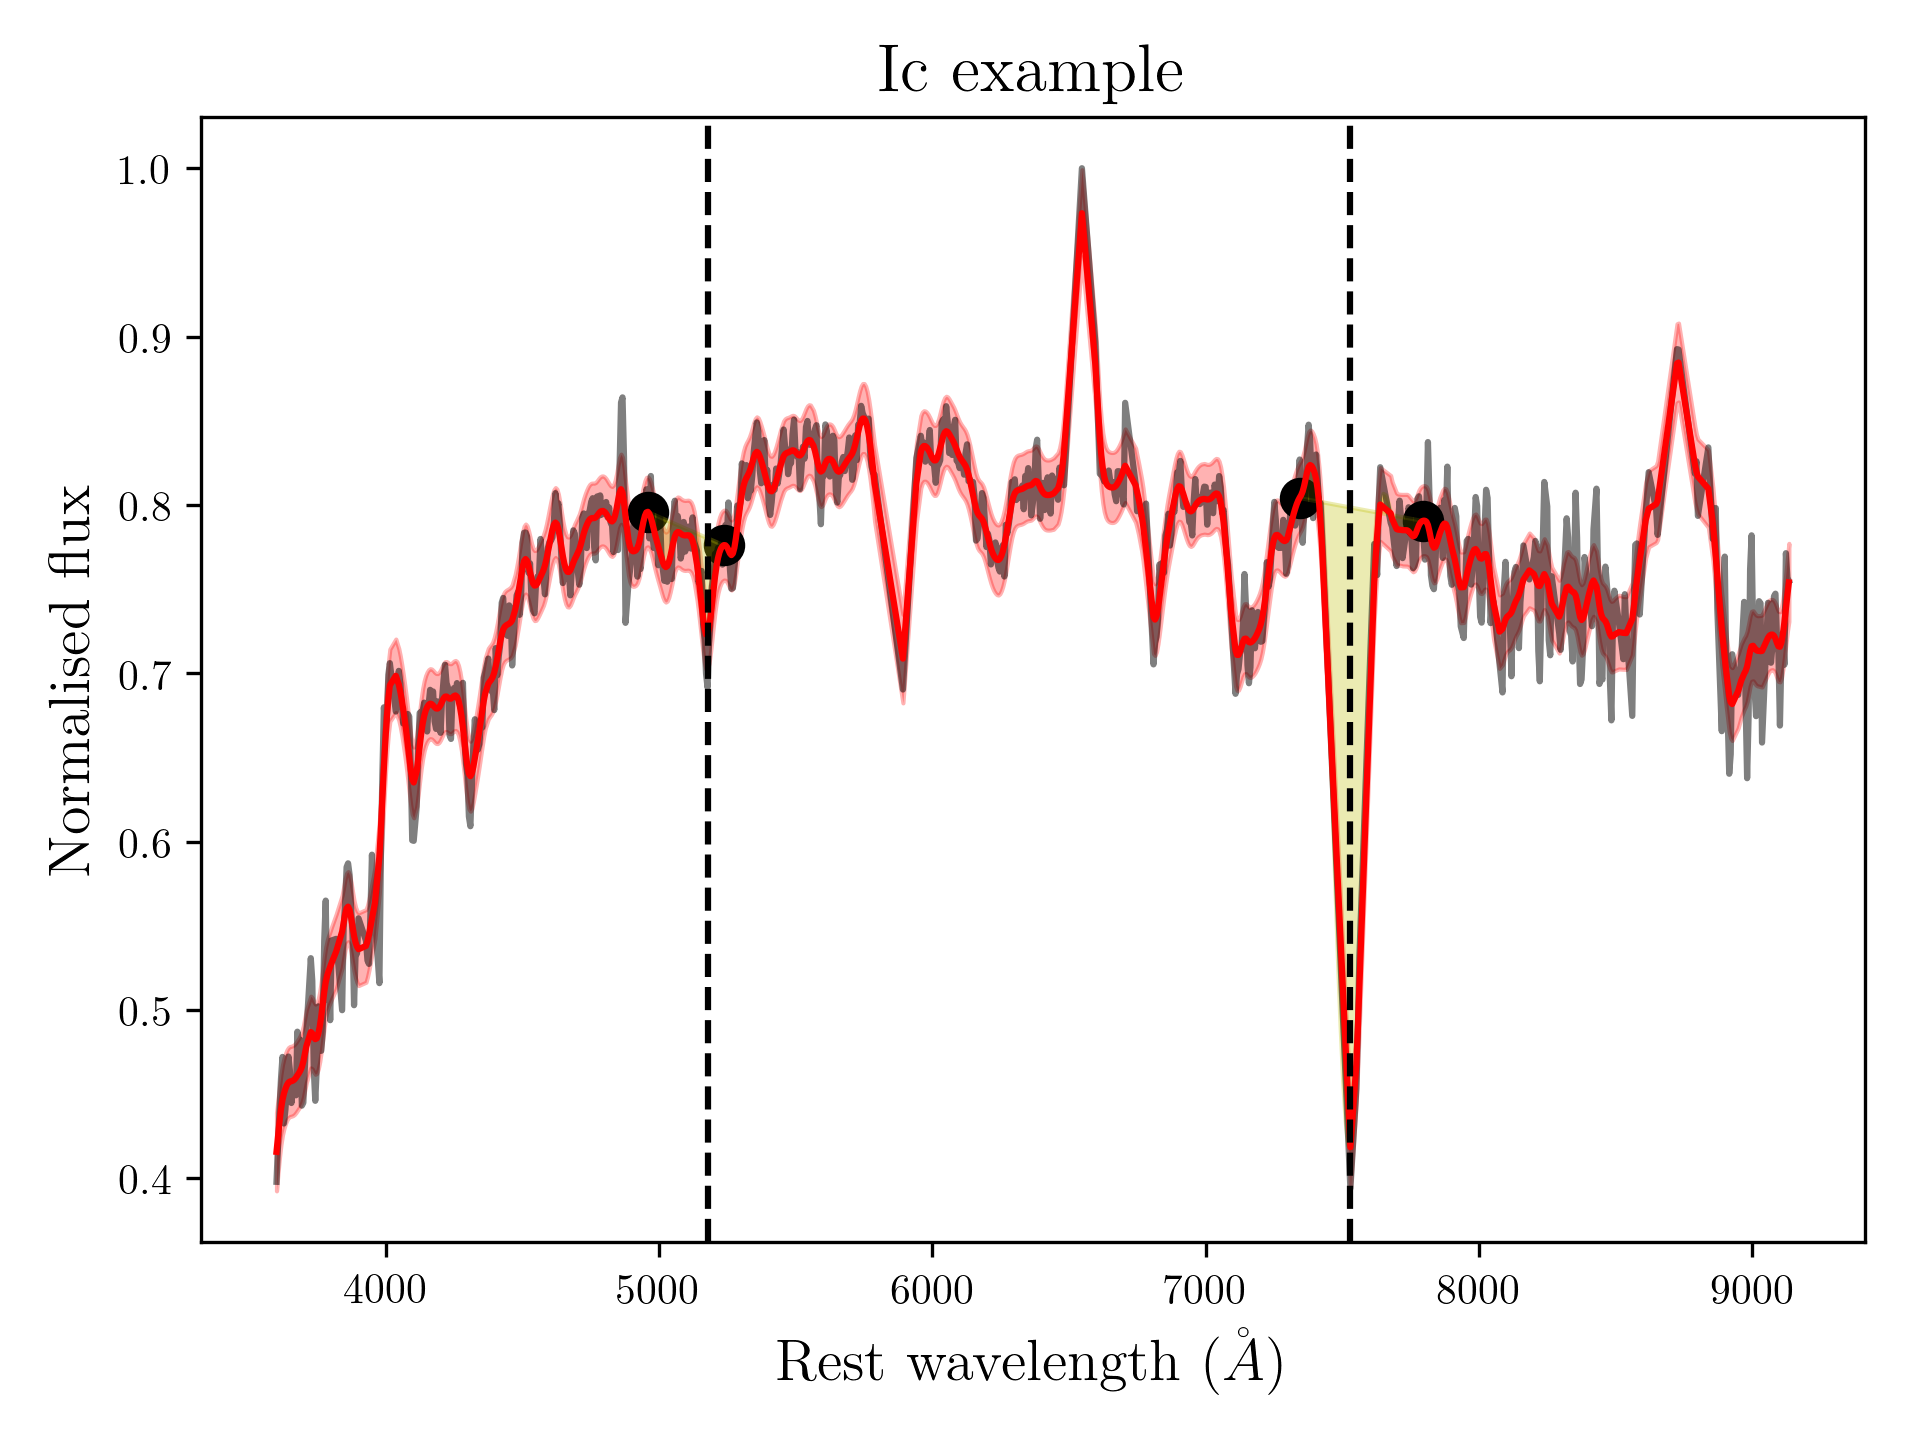
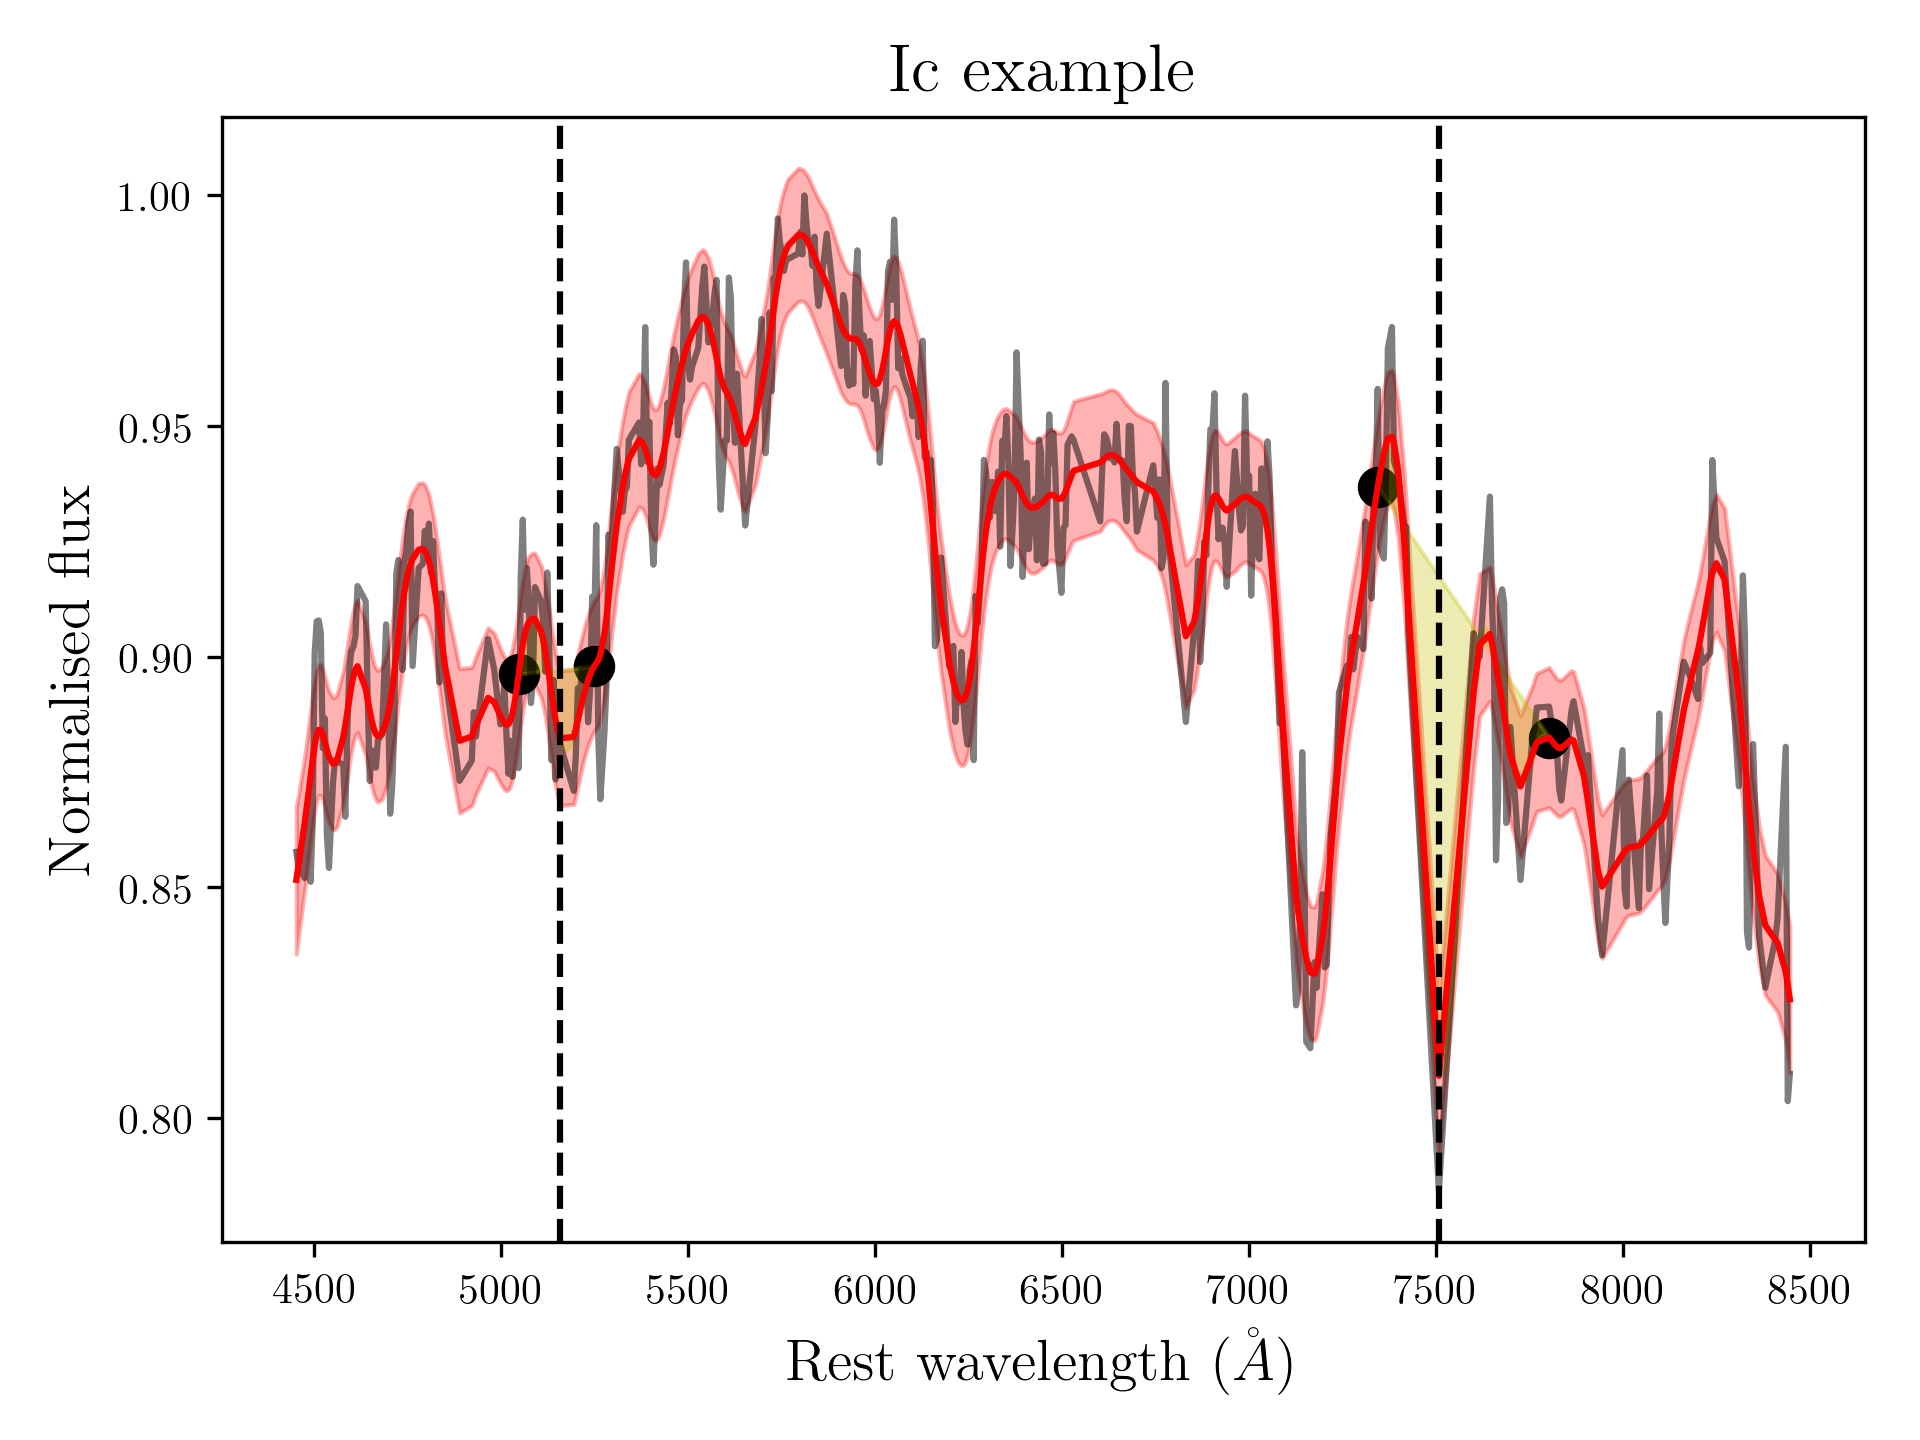
Auto-pruning example

diff --git a/example/example.py b/example/example.py
@@ -50,8 +50,9 @@ plt.savefig('Ia_hv_example.png', dpi=300)
 # Test case with a type Ib
 filename_Ib = 'tns_2018_aqf/tns_2018aqf_2018-04-10.0_P200_DBSP_ZTF.txt'
 z = 0.033
+# In this case, we set auto_prune to False to analyse the whole spectrum.
 pew, pew_err, vel, vel_err, gp_model = spextractor.process_spectra(filename_Ib, z, downsampling=3, plot=True, type='Ib',
-                                                                   sigma_outliers=3)
+                                                                   sigma_outliers=3, auto_prune=False)
 # velocities are given in 10**3 km/s and pEW in Å
 print('pew (Å)')
 report(pew, pew_err)
